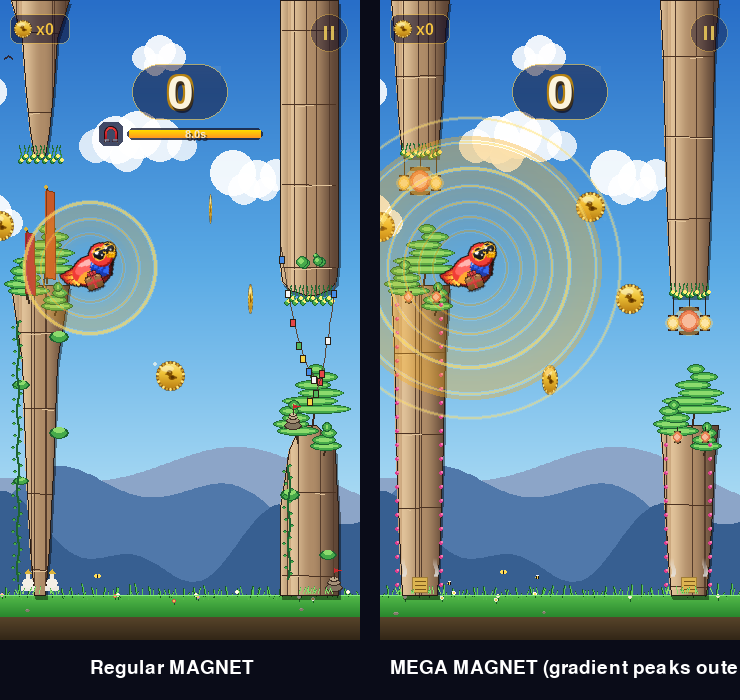
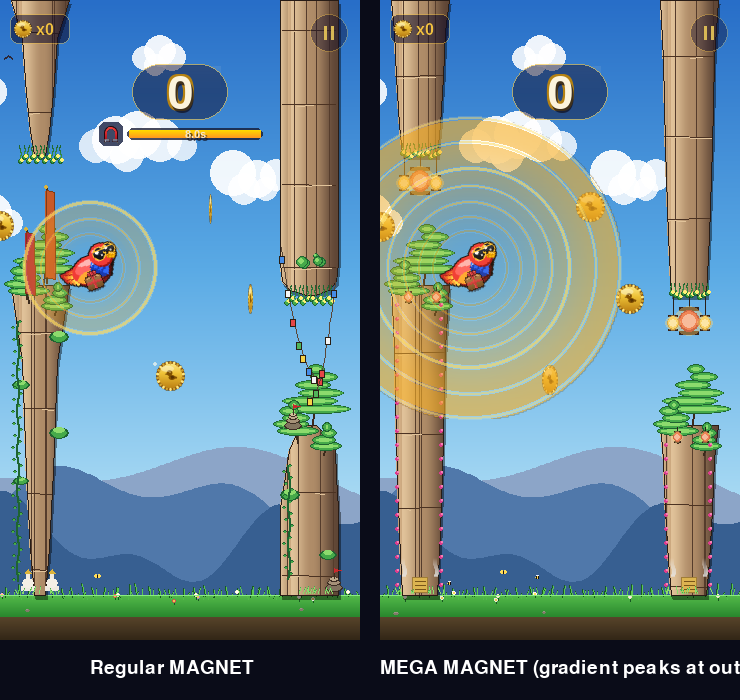
MEGA MAGNET: pre-rendered radial gradient — peaks at outermost ring
User: "extend the gradient all the way until the border of the most
outer circle in the megamagnet". Also asked me to self-critique the
work and iterate until pleasing.

Iteration log:

  iter 1 — tied glow_rad to the outer ring's exact pulsing radius
           (no more gap where the ring sat outside the gradient).
           SELF-CRITIQUE: nested filled circles caused alpha to
           accumulate toward the CENTRE while the outermost pixel
           only got touched by the largest circle — net effect was
           the centre being brighter than the outer rings. Wrong.

  iter 2 — switched to concentric ANNULI (rings) so alpha-per-radius
           wasn't accumulated by inner draws.
           SELF-CRITIQUE: visible banding rings — failed the "keep
           it smooth" requirement.

  iter 3 (this commit) — pre-render the radial gradient once as a
           200x200 per-pixel surface, smoothscale to the current
           pulsing diameter, blit ONCE per frame. Bell curve peaks
           at inner_t=1.0 (outermost) with wide 0.40 falloff so the
           gradient flows softly all the way to the centre.

Per-pixel cost is ~40k pixel ops paid ONCE on first use (cached in
module-level _MEGA_GRADIENT_SURFACE). Each subsequent frame is a
smoothscale + single blit — fast on WASM.

Verified across 4 pulse phases: the gradient peak tracks the outer
ring smoothly with no visible gap, no banding, no centre bias.
33/33 tests still pass.

Changed region(s): [[0.4973, 0.15, 0.8392, 0.6], [0.4973, 0.93, 1.0, 0.99]]

diff --git a/game/scenes.py b/game/scenes.py
@@ -18,6 +18,45 @@ from game.config import BIRD_X, SCROLL_BASE
 from game import intro as _intro
 from game.lottery_slot import draw_reveal as _draw_lottery_reveal
 
+
+# Pre-rendered MEGA MAGNET radial gradient texture. Computed ONCE on
+# first access (a per-pixel bell-curve fill — slow as a pure-Python
+# loop but only runs at startup) and then smoothscale'd per frame to
+# match the pulsing glow radius. Pre-rendering avoids the visible
+# banding that nested annuli produced and the centre-accumulation
+# that nested filled circles produced. The 200×200 source texture
+# scales up to ≤ ~320 px gracefully.
+_MEGA_GRADIENT_SURFACE = None
+_MEGA_GRADIENT_SIZE = 200
+
+
+def _get_mega_gradient_surface():
+    global _MEGA_GRADIENT_SURFACE
+    if _MEGA_GRADIENT_SURFACE is not None:
+        return _MEGA_GRADIENT_SURFACE
+    GLOW_COL = (245, 175, 40)
+    sz = _MEGA_GRADIENT_SIZE
+    surf = pygame.Surface((sz, sz), pygame.SRCALPHA)
+    cx = cy = sz / 2
+    max_r = sz / 2
+    for y in range(sz):
+        for x in range(sz):
+            dx = x - cx
+            dy = y - cy
+            d = math.sqrt(dx * dx + dy * dy)
+            if d > max_r:
+                continue
+            inner_t = d / max_r
+            # Bell curve peaks at inner_t = 1.0 so the brightest gold
+            # sits AT the outermost ring. Wide falloff (0.40) keeps a
+            # gentle tint flowing all the way to the centre.
+            bell = math.exp(-((inner_t - 1.0) ** 2) / 0.40)
+            a = int(160 * bell)
+            if a > 0:
+                surf.set_at((x, y), (*GLOW_COL, a))
+    _MEGA_GRADIENT_SURFACE = surf
+    return surf
+
 # Pixels of `bg_scroll` covered while the gameplay opener is active. After
 # the post-ready grace window, the cottage is fully off-screen-left and the
 # overlay shuts itself off.
@@ -1226,28 +1265,30 @@ class App:
             s_outer = _math.sin(t_pulse + 0.0)
             u_outer = (s_outer + 1) / 2
             outer_factor = 1.0 - BREATH * (1.0 - u_outer)
-            # Glow extends to the OUTERMOST ring (rfac=1.30) so the
-            # two new outer halos get the same gold backing as the
-            # inner rings — no more transparent outlines.
-            glow_rad = rad * 1.30 * outer_factor
+            # Tie the gradient's outer edge to the OUTERMOST ring's
+            # exact pulsing radius (rfac=1.30, phase=-0.6, breath
+            # scale=0.62) so the gold gradient always reaches the
+            # outer ring's border — no gap where the ring sits
+            # outside the gradient at certain phase points.
+            outer_ring_amp = BREATH * 0.62
+            u_outer_ring = (_math.sin(t_pulse + (-0.6)) + 1) / 2
+            outer_ring_factor = (1.0 - outer_ring_amp
+                                  * (1.0 - u_outer_ring))
+            glow_rad = rad * 1.30 * outer_ring_factor
 
-            # MEGA-specific bell curve: peak shifted from 0.85 (regular)
-            # to 1.0 so the brightest gold sits AT the outermost ring
-            # ("the maximum should be at the outer circles" per the user)
-            # and a wider falloff (0.40 vs 0.15) keeps the gradient
-            # smoothly flowing across all 7 rings instead of dying
-            # halfway in. Alpha bumped from 72 → 100 so the outer
-            # halos read boldly even though their ring outlines stay
-            # the same width as the rest.
-            GLOW_COL = (245, 175, 40)
-            for i in range(28, 0, -1):
-                r = int(glow_rad * i / 28)
-                inner_t = i / 28
-                bell = _math.exp(-((inner_t - 1.0) ** 2) / 0.40)
-                a = int(100 * bell)
-                if a > 0:
-                    pygame.draw.circle(field, (*GLOW_COL, a),
-                                       (lcx, lcy), r)
+            # Pre-rendered radial gradient texture (see
+            # _get_mega_gradient_surface above for the bell-curve
+            # construction). Scaled to the current pulsing glow_rad
+            # and blitted ONCE — gives a perfectly smooth gradient
+            # without the banding from annuli or the centre-bias
+            # accumulation from nested filled circles.
+            grad_src = _get_mega_gradient_surface()
+            target = int(glow_rad * 2)
+            if target > 0:
+                scaled = pygame.transform.smoothscale(
+                    grad_src, (target, target))
+                field.blit(scaled,
+                            (lcx - target // 2, lcy - target // 2))
 
             AA_COL = (255, 240, 180)
             for rfac, phase, alpha, width, breath_scale, ring_col in (
